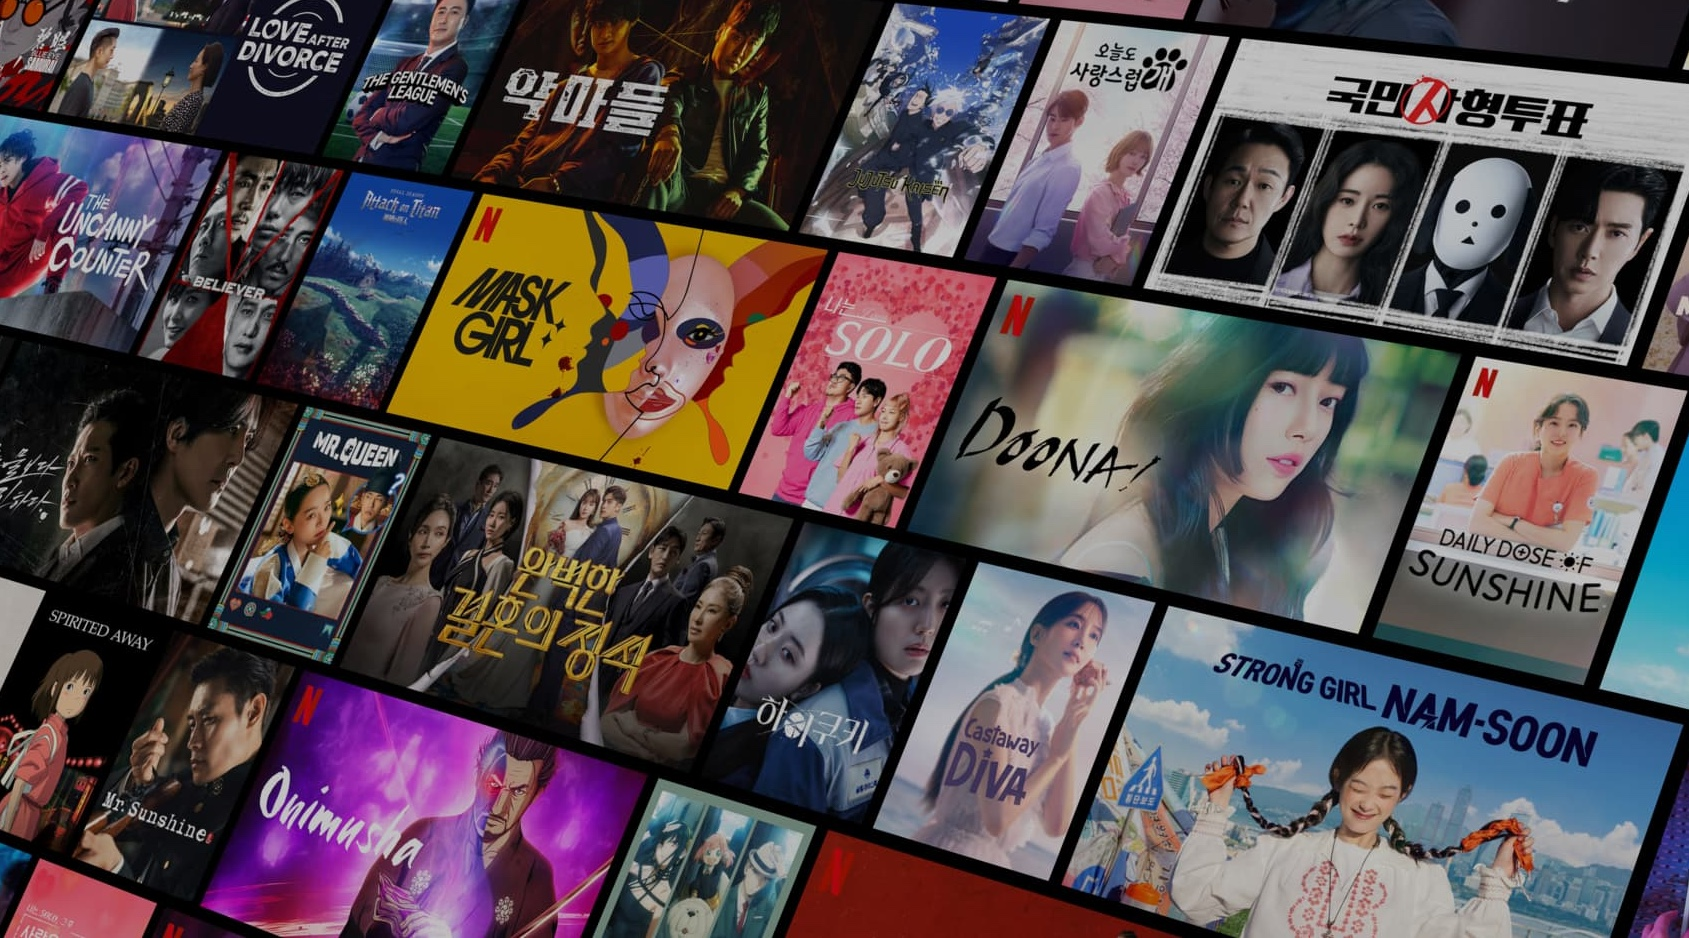
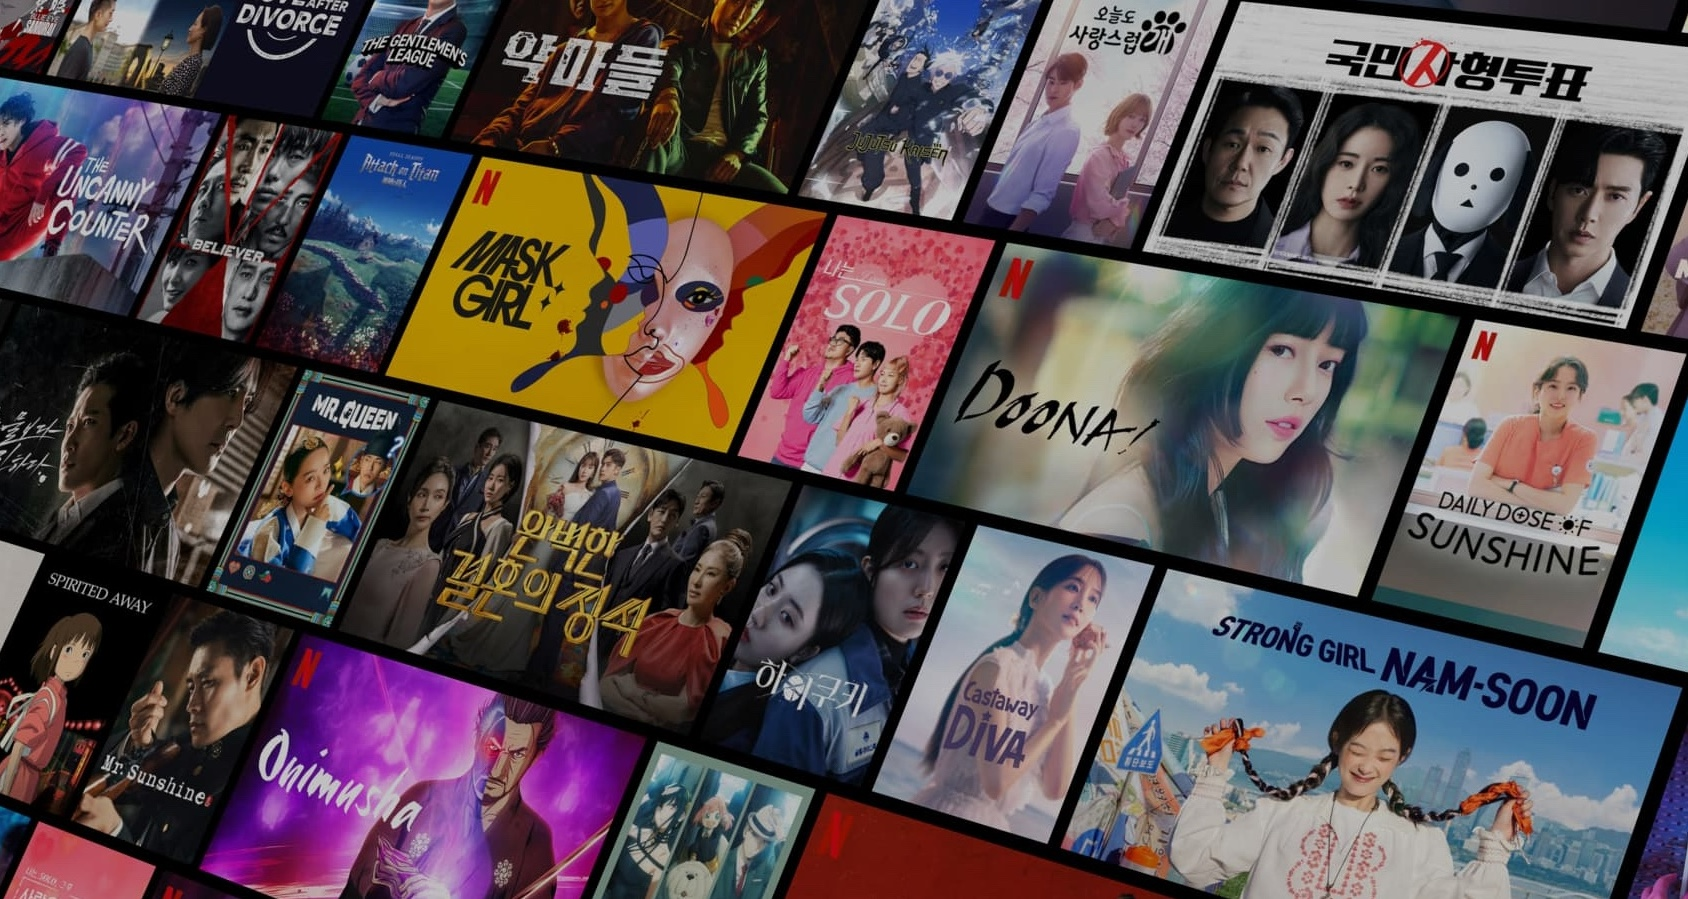
Created the faq section and fixed the title section up-to-date w/ the current offical site

diff --git a/netflix/landing-page/index.html b/netflix/landing-page/index.html
@@ -26,9 +26,9 @@
             </div>
         </nav>
         <header class="title-header">
-            <h1>Enjoy big movies, hit series and more from KRW5,500.</h1>
-            <h4>Join today. Cancel anytime.</h4>
-            <h6>Ready to watch? Enter your email to create or restart your membership.</h6>
+            <h1>Unlimited movies, TV shows, and more</h1>
+            <h4>Watch anywhere. Cancel anytime.</h4>
+            <h6 class="signup-text">Ready to watch? Enter your email to create or restart your membership.</h6>
             <form class="signup-form" action="">
                 <input type="email" placeholder="Email address" minlength="5" maxlength="50" name="email" value=""
                     required>
@@ -89,7 +89,24 @@
 
     <!-- faq -->
     <section id="faq">
-
+        <h2>Frequently Asked Questions</h2>
+        <div class="faq-column">
+            <button class="faq-dropdown">What can I watch on Netflix?</button>
+            <button class="faq-dropdown">What is Netflix?</button>
+            <button class="faq-dropdown">How much does Netflix cost?</button>
+            <button class="faq-dropdown">Where can I watch?</button>
+            <button class="faq-dropdown">How do I cancel?</button>
+            <button class="faq-dropdown">Is Netflix good for kids?</button>
+        </div>
+        <div class="signup-div">
+            <h6 class="signup-text">Ready to watch? Enter your email to create or restart your membership.</h6>
+            <form class="signup-form" action="">
+                <input type="email" placeholder="Email address" minlength="5" maxlength="50" name="email" value=""
+                    required>
+                <button role="button" type="submit">Get Started <i class="fa-solid fa-chevron-right"></i></button>
+            </form>
+        </div>
+        <div class="divider"></div>
     </section>
 
     <!-- footer -->

diff --git a/netflix/landing-page/css/styles.css b/netflix/landing-page/css/styles.css
@@ -46,7 +46,7 @@ body {
 
 #title {
     width: 100%;
-    height: 100vh;
+    height: 95vh;
     background-image: linear-gradient(rgba(0, 0, 0, 0.85), rgba(0, 0, 0, 0.4), rgba(0, 0, 0, 0.85)), url(../images/title.png);
     background-size: cover;
     background-position: bottom;
@@ -108,7 +108,7 @@ body {
 }
 
 .title-header {
-    margin: 160px 70px;
+    margin: 200px 70px;
 }
 
 .title-header h1 {
@@ -124,7 +124,7 @@ body {
     margin-top: 16px;
 }
 
-.title-header h6 {
+.signup-text {
     font-family: 'Netflix Sans Regular', sans-serif;
     font-weight: 400;
     font-size: 1.25rem;
@@ -176,20 +176,16 @@ body {
 
 /* feature */
 
-#feature {
-    background-color: #000000;
-}
-
 .row {
     display: flex;
     align-items: center;
     flex-wrap: wrap;
-    padding: 80px 160px;
+    padding: 90px 160px;
 }
 
 .col-text {
     flex-basis: 50%;
-    margin-bottom: 74px;
+    margin-bottom: 60px;
     text-align: left;
 }
 
@@ -219,5 +215,47 @@ body {
     display: block;
     width: 100%;
     height: 0.5rem;
+    margin-top: 10px;
     background-color: rgb(35, 35, 35);
+}
+
+
+
+/* faq */
+
+#faq {
+    padding: 30px;
+}
+
+#faq h2 {
+    font-family: 'Netflix Sans Black', sans-serif;
+    font-weight: 900;
+    font-size: 3rem;
+    margin-top: 30px;
+}
+
+.faq-column {
+    display: flex;
+    flex-direction: column;
+    align-items: center;
+    justify-content: space-between;
+    height: 560px;
+    margin: 20px 0 50px;
+}
+
+.faq-dropdown {
+    width: 80%;
+    height: 84px;
+    border: 0;
+    background-color: rgb(45, 45, 45);
+    color: #ffffff;
+    font-family: 'Netflix Sans Regular', sans-serif;
+    font-weight: 400;
+    font-size: 1.5rem;
+    text-align: left;
+    padding: 0 20px;
+}
+
+.signup-div {
+    margin: 50px 0 80px;
 }
